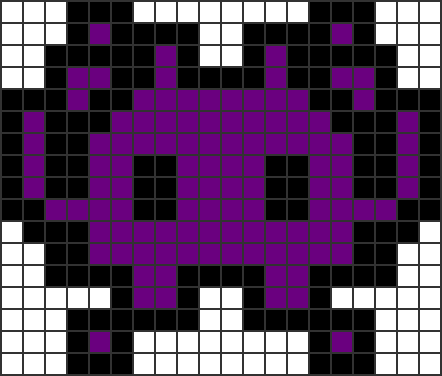
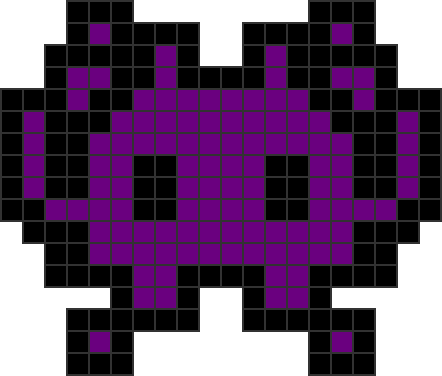
Using new feature to remove alien monster bg.

diff --git a/src/pixels/canvas/templates/alien_monster.rs b/src/pixels/canvas/templates/alien_monster.rs
@@ -87,13 +87,13 @@ impl Template<17, 20> for AlienMonster {
 
 #[cfg(test)]
 mod tests {
-    use crate::{pixels::canvas::SharedPixelCanvasExt, prelude::PixelCanvas};
+    use crate::pixels::canvas::{MaybePixelCanvas, SharedPixelCanvasExt};
 
     use super::*;
 
     #[test]
     fn monster() {
-        let mut canvas = PixelCanvas::<17, 20>::default();
+        let mut canvas = MaybePixelCanvas::<17, 20>::default();
         canvas.draw_exact_abs(AlienMonster);
 
         canvas

diff --git a/src/image/mod.rs b/src/image/mod.rs
@@ -23,7 +23,7 @@ pub struct PixelImageStyle {
 
 impl Default for PixelImageStyle {
     fn default() -> Self {
-        Self::new(10, 1, 100)
+        Self::new(10, 1, 50)
     }
 }
 
